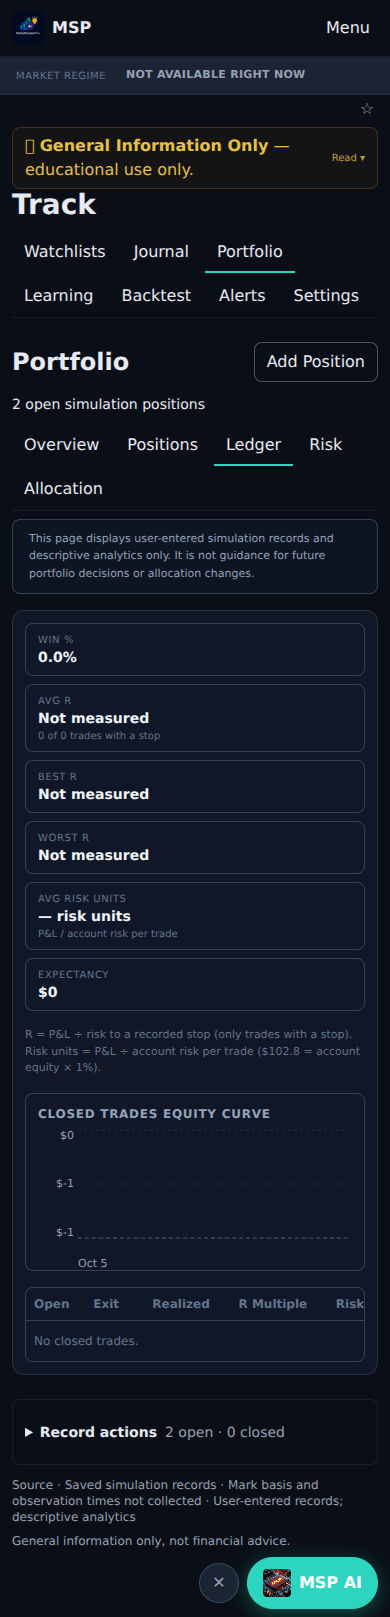
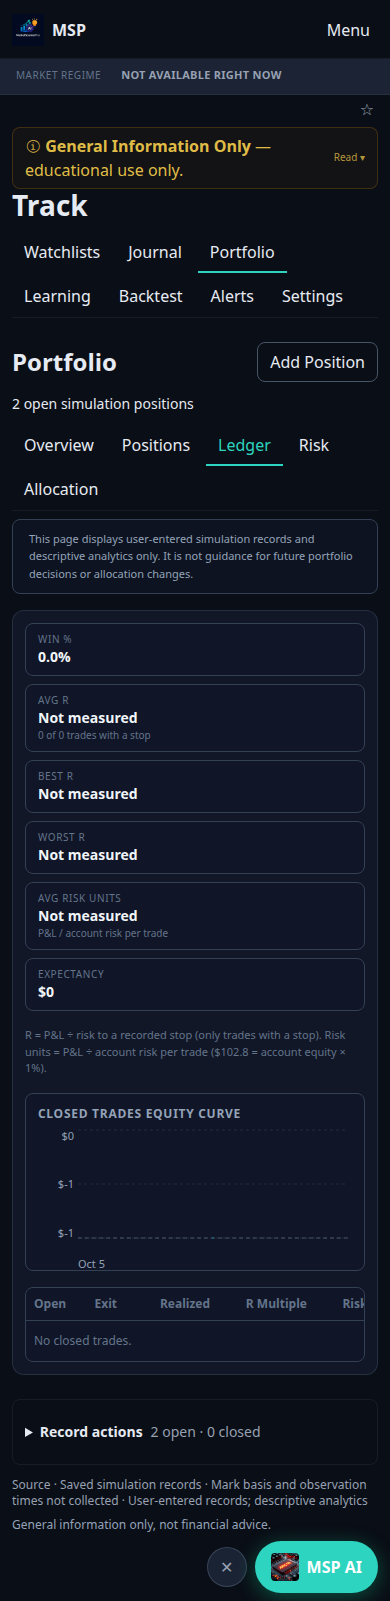
J2: Say Not measured when risk units are missing
Ledger rendered an em-dash placeholder from formatRiskUnits(null). Null risk units and R now say Not measured, and the detail-tab render scan rejects an em dash. Ledger and Risk evidence is recaptured with folds closed.

diff --git a/lib/portfolio/rMeasures.ts b/lib/portfolio/rMeasures.ts
@@ -3,7 +3,7 @@
  *
  *  - R: P&L divided by the risk to a REAL stop (entry-to-stop distance x units). Only shown where a stop
  *    exists: open positions with a stop, closed trades whose journal entry recorded a stop (journal R), or
- *    closed trades that kept a stop on this device. Otherwise '—'.
+ *    closed trades that kept a stop on this device. Otherwise the value is not measured.
  *  - Risk units: P&L divided by the account risk per trade (account equity x max risk per trade %). One
  *    definition, used everywhere a stop isn't available, and never called R.
  */
@@ -34,7 +34,7 @@ export function toRiskUnits(amount: number, unitDollars: number | null): number 
 }
 
 export function formatRiskUnits(value: number | null): string {
-  if (value == null || !Number.isFinite(value)) return '— risk units';
+  if (value == null || !Number.isFinite(value)) return 'Not measured';
   const sign = value > 0 ? '+' : value < 0 ? '-' : '';
   return `${sign}${Math.abs(value).toFixed(2)} risk units`;
 }
@@ -88,6 +88,6 @@ export function summarize(values: Array<number | null | undefined>): Summary {
 }
 
 export function formatR(value: number | null): string {
-  if (value == null || !Number.isFinite(value)) return '—';
+  if (value == null || !Number.isFinite(value)) return 'Not measured';
   return `${value >= 0 ? '+' : ''}${value.toFixed(2)}R`;
 }

diff --git a/lib/portfolio/positionLevels.ts b/lib/portfolio/positionLevels.ts
@@ -2,7 +2,7 @@
  * Stop / target levels for open portfolio positions, and the risk figures derived from them.
  *
  * Prices are in the position's own units (premium per share for options), so the figures here are
- * unit-free ratios. With no stop set, every stop-derived figure is null (shown as '—'); there is no
+ * unit-free ratios. With no stop set, every stop-derived figure is null (shown as not measured); there is no
  * hidden default stop.
  */
 
@@ -80,7 +80,7 @@ export function validateLevels(
     if (position.currentPrice > 0 && (long ? stop >= position.currentPrice : stop <= position.currentPrice)) {
       warnings.push(`Stop is ${long ? 'at or above' : 'at or below'} the current price, so it would already be hit.`);
     } else if (long ? stop >= position.entryPrice : stop <= position.entryPrice) {
-      warnings.push('Stop is at or past entry (breakeven or locked-in profit), so R and Risk Remaining will show —.');
+      warnings.push('Stop is at or past entry (breakeven or locked-in profit), so R and Risk Remaining will show Not measured.');
     }
   }
   if (target != null && (long ? target <= position.entryPrice : target >= position.entryPrice)) {

diff --git a/test/portfolioRMeasures.test.ts b/test/portfolioRMeasures.test.ts
@@ -9,7 +9,7 @@ describe('risk units (TR-5): one definition, never called R', () => {
     expect(formatRiskUnits(2)).toBe('+2.00 risk units');
     expect(formatRiskUnits(-0.5)).toBe('-0.50 risk units');
     expect(riskUnitDollars(0, 1)).toBeNull();
-    expect(formatRiskUnits(toRiskUnits(100, null))).toBe('— risk units');
+    expect(formatRiskUnits(toRiskUnits(100, null))).toBe('Not measured');
     expect(formatRiskUnits(1)).not.toMatch(/\bR\b/);
   });
 });
@@ -38,7 +38,7 @@ describe('summarize / formatR', () => {
   it('ignores trades without R and reports the count', () => {
     expect(summarize([1, null, -0.5, undefined, 2])).toEqual({ count: 3, avg: 2.5 / 3, best: 2, worst: -0.5 });
     expect(summarize([null])).toEqual({ count: 0, avg: null, best: null, worst: null });
-    expect(formatR(null)).toBe('—');
+    expect(formatR(null)).toBe('Not measured');
     expect(formatR(1.234)).toBe('+1.23R');
   });
 });

diff --git a/test/trackPortfolioRender.test.tsx b/test/trackPortfolioRender.test.tsx
@@ -36,6 +36,6 @@ it.each(['Positions','Ledger','Risk','Allocation'])('%s keeps raw missing values
  const {container}=render(<PortfolioContent embeddedInWorkspace/>);
  await screen.findByRole('img',{name:'Allocation by recorded position value'});
  fireEvent.click(screen.getByRole('tab',{name,exact:true}));
- expect(container.textContent).not.toMatch(/\b(?:N\/A|UNKNOWN|Unavailable|undefined|NaN|bullish|bearish)\b|[A-Z]+_[A-Z_]+/i);
+ expect(container.textContent).not.toMatch(/\b(?:N\/A|UNKNOWN|Unavailable|undefined|NaN|bullish|bearish)\b|—|[A-Z]+_[A-Z_]+/i);
  expect(container.querySelectorAll('[data-source-line]')).toHaveLength(1);
 });

diff --git a/docs/qa/track-portfolio-2026-10-05/README.md b/docs/qa/track-portfolio-2026-10-05/README.md
@@ -48,10 +48,12 @@ Full-page render regressions also scan each of the four detail tabs for raw miss
 |---|---:|---:|
 | Overview | 1.279 | 1.573 |
 | Positions | 1.308 | 1.623 |
-| Ledger | 1.345 | 1.916 |
-| Risk | 1.423 | 1.963 |
+| Ledger | 1.345 | 1.897 |
+| Risk | 1.423 | 1.944 |
 | Allocation | 1.274 | 1.788 |
 
 Same dimensions for Pro and Free. Each captured tab has one source line, closed folds and document width equal to viewport width. Expanded-fold banned-word scan has zero hits in all 20 cases, including the product words Target, Golden Egg, Workspace and Command Center. Zero browser page errors. Pro full-page screenshots and both tiers' raw measurements/text/word hits are in tabs/. Prior overview empty and signed-out evidence remains valid; only a positions column heading and recorded-outcome labels changed afterwards.
 
-Ledger outcome labels now describe actual P&L sign (Gain / Loss / Flat); they do not infer that a saved close hit a target or stop. Calculated P&L and saved records are unchanged. Latest build, typecheck and 168 focused tests pass. No production write, provider request, merge or deployment performed.
+Ledger outcome labels now describe actual P&L sign (Gain / Loss / Flat); they do not infer that a saved close hit a target or stop. Calculated P&L and saved records are unchanged.
+
+A missing average risk-unit figure says Not measured. Ledger and Risk were recaptured with folds closed at 1280 and 390 (Pro Risk `openFolds` is 0). The only em dash left in those captures is the protected disclaimer, “General Information Only — educational use only.” Focused Portfolio render, layout, and risk-unit tests pass. No production write, provider request, merge or deployment performed.
